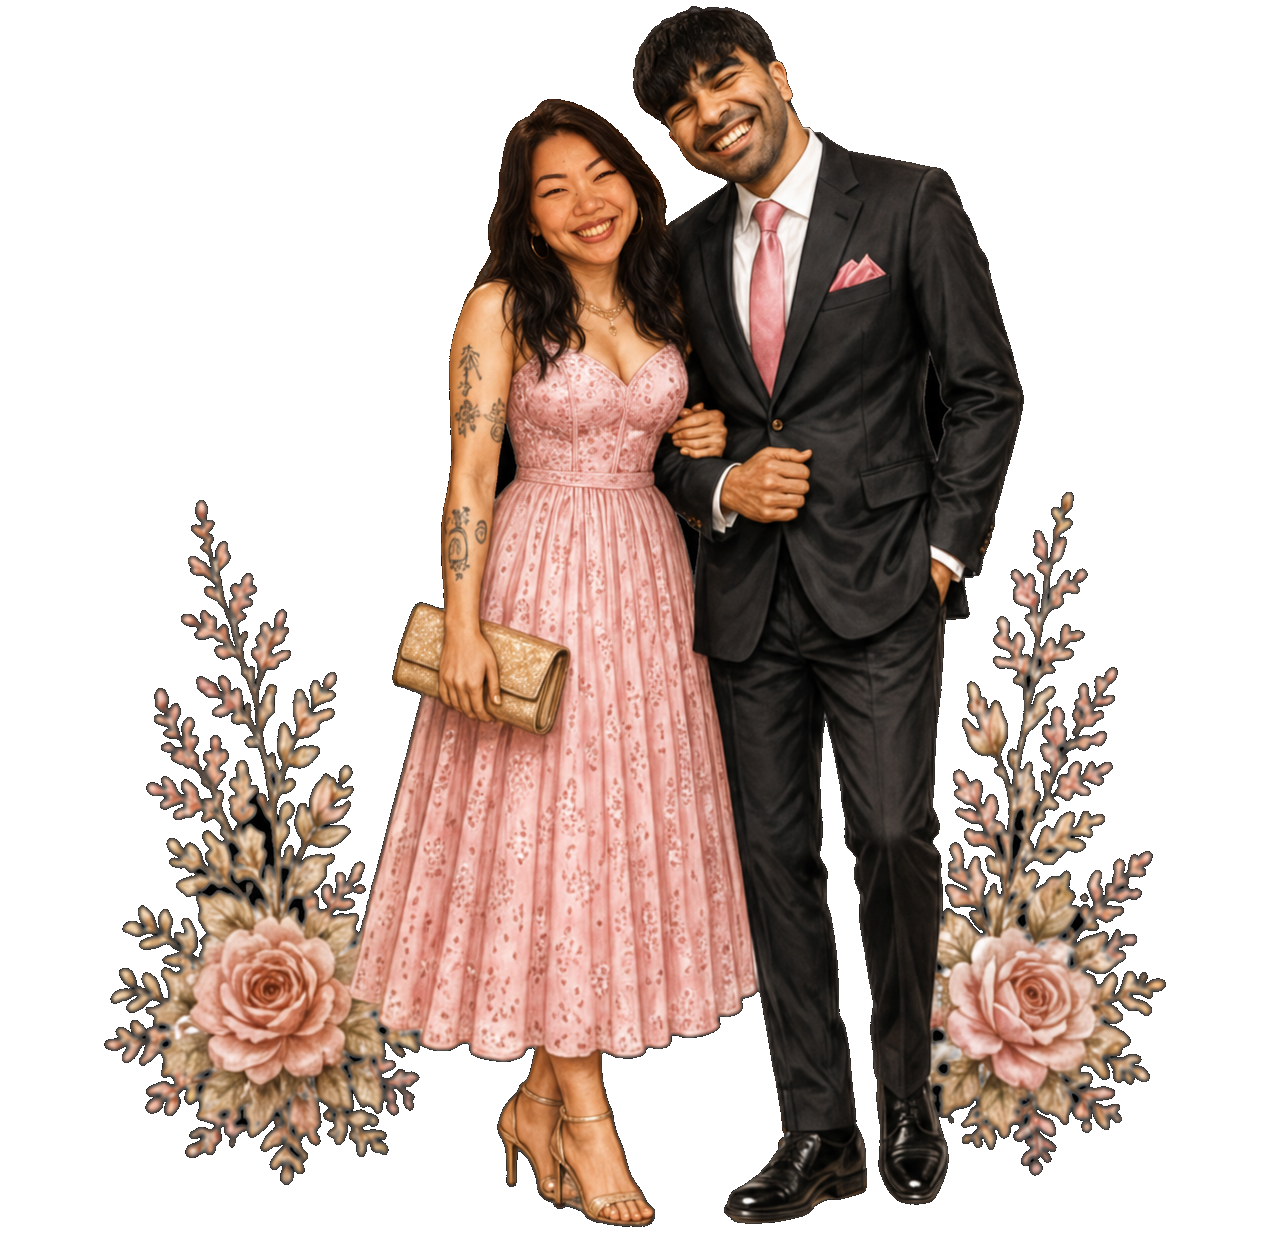
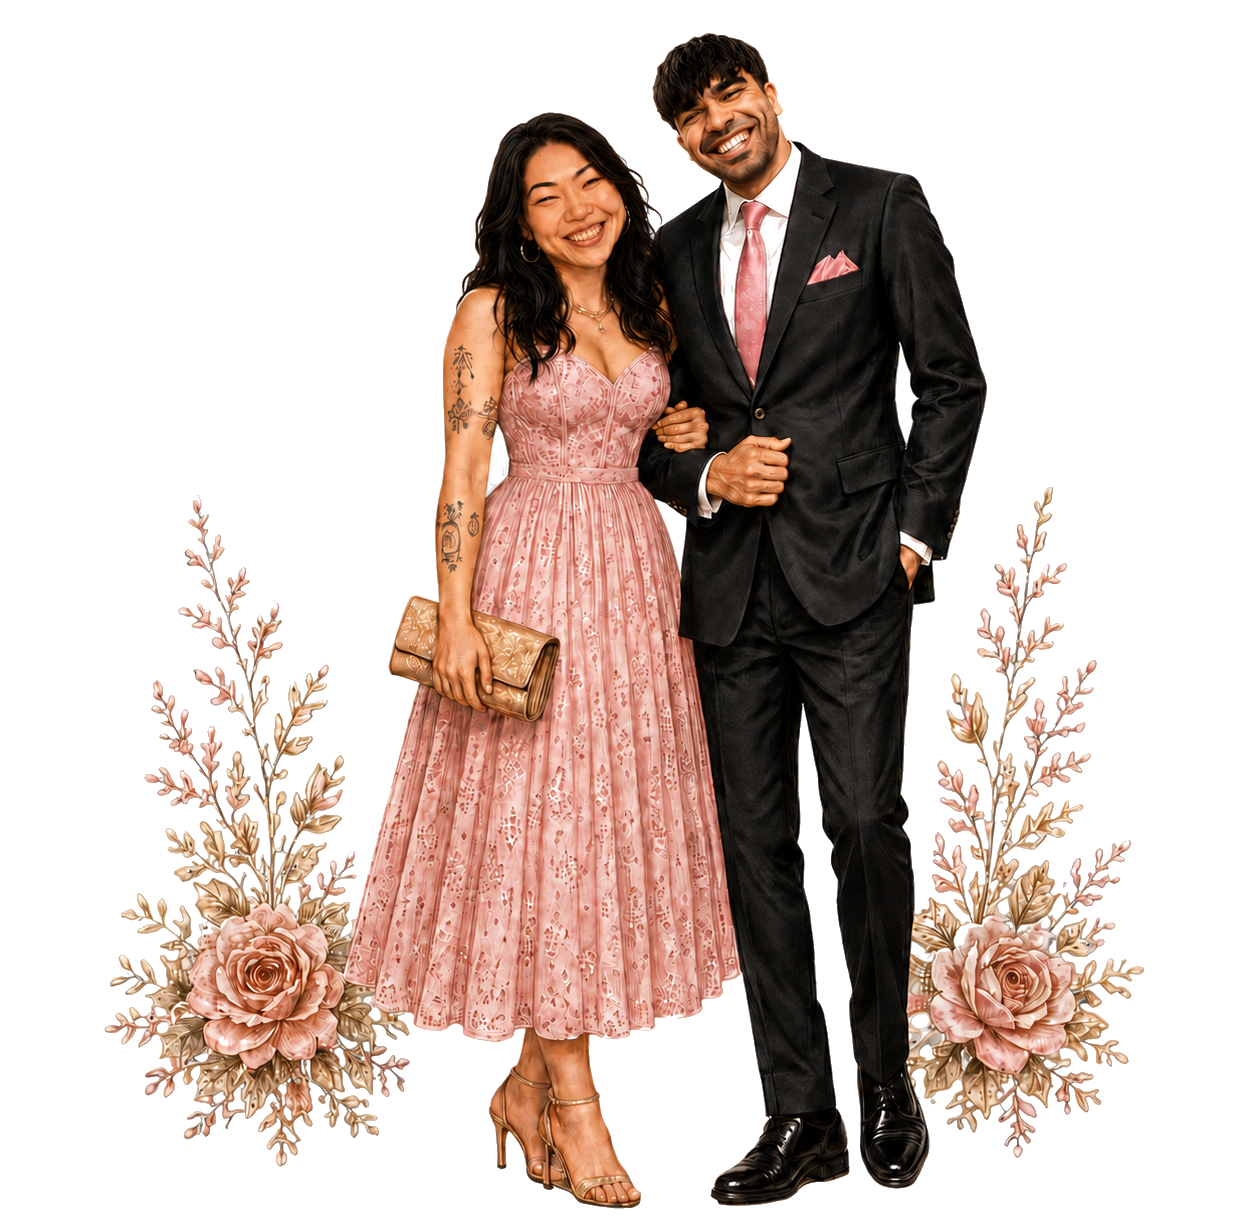
Replace sangeet and christian attire illustrations with user-supplied versions
- New photos provided by Elizabeth with transparency already applied
- Background removed via edge flood-fill + interior near-bg pass (threshold 18)
- Christian canvas cropped to feet+16px to match foot-to-bottom spacing of other cards
- --figure-width updated: christian 92%→94.5%, sangeet 94.8%→95.2% to normalize body height to ~336px rendered (matching haldi reference)

Changed region(s): [[0.0622, 0.0, 0.933, 0.9935]]

diff --git a/index.html b/index.html
@@ -153,9 +153,9 @@ section { padding: 3.25rem var(--page-pad); position: relative; }
 .o-detail strong { color:var(--navy); }
 .o-tag { display:inline-block; padding:0.25rem 0.7rem; border:1px solid var(--gold-faint); border-radius:2px; font-family:'Josefin Sans',sans-serif; font-size:0.6rem; letter-spacing:1.5px; text-transform:uppercase; color:var(--gold); margin-top:0.8rem; }
 .attire-figure { width:100%; max-width:380px; height:320px; margin:0 auto 0.85rem; background-size:var(--figure-width,92%) auto; background-repeat:no-repeat; background-position:center bottom; }
-.figure-christian { --figure-width:92%; background-image:url('assets/attire/attire-christian_2.png'); }
+.figure-christian { --figure-width:94.5%; background-image:url('assets/attire/attire-christian_2.png'); }
 .figure-haldi { --figure-width:97.2%; background-image:url('assets/attire/attire-haldi_2.png'); }
-.figure-sangeet { --figure-width:94.8%; background-image:url('assets/attire/attire-sangeet_2.png'); }
+.figure-sangeet { --figure-width:95.2%; background-image:url('assets/attire/attire-sangeet_2.png'); }
 .figure-wedding { --figure-width:93.6%; background-image:url('assets/attire/attire-wedding_2.png'); }
 .figure-baraat { --figure-width:92.3%; background-image:url('assets/attire/attire-baraat_2.png'); }
 .shop-links { max-width:var(--content-width); margin:0 auto; text-align:center; background:rgba(255,253,247,0.9); border:1px solid var(--gold-faint); border-top:none; border-radius:0 0 4px 4px; backdrop-filter:blur(6px); }
